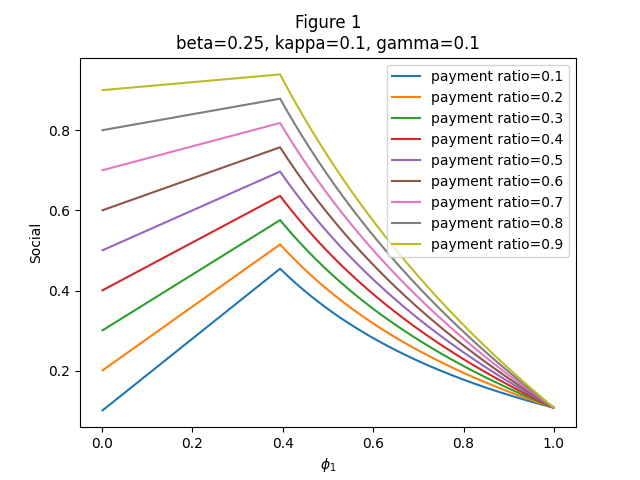
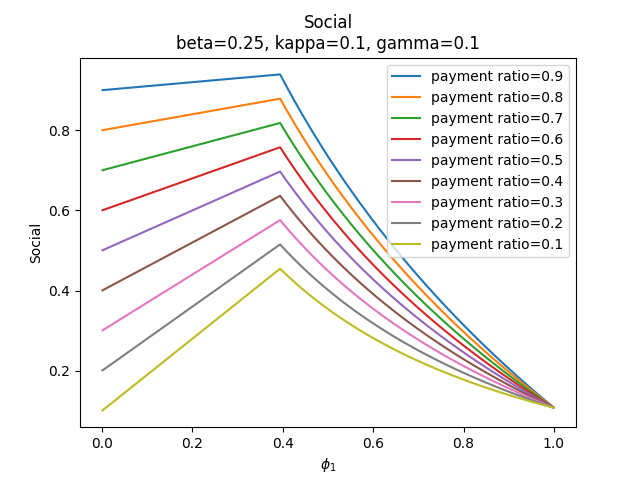
revised fig1 and 2

diff --git a/Plottings.py b/Plottings.py
@@ -28,7 +28,8 @@ def figure1_and_2():
     fig2 = plt.figure()
     ax1 = fig1.add_subplot(1, 1, 1)
     ax2 = fig2.add_subplot(1, 1, 1)
-    for d in data:
+    IU1_plotted = False
+    for d in data[::-1]:
         UG1 = d["GroupUtility1"]
         UG2 = d["GroupUtility2"]
         social = [U1 + U2 for U1, U2 in zip(UG1, UG2)]
@@ -40,19 +41,24 @@ def figure1_and_2():
         # print(type(PaymentRatio))
         # print(len(social))
         ax1.plot(phi1_range, social, label=f"payment ratio={PaymentRatio}")
-        ax2.plot(phi1_range, IU1, color=colorS1)  # label=f"Ind utility 1={PaymentRatio}")
-        ax2.plot(phi1_range, IU2, color=colorS2, label=f"Ind utility 1={PaymentRatio}")
-        ax2.plot(nash_point, nash_value, 'ro', markersize=10, label=f"NE @ {PaymentRatio}")
+        # ax2.plot(phi1_range, IU1, color=colorS1)  # label=f"Ind utility 1={PaymentRatio}")
+        # ax2.plot(phi1_range, IU2, color=colorS2, label=f"Ind utility 1={PaymentRatio}")
+        # ax2.plot(nash_point, nash_value, 'ro', markersize=10, label=f"NE @ {PaymentRatio}")
+        if not IU1_plotted:
+            IU1_plotted = True
+            ax2.plot(phi1_range, IU1, label="Group 1")  # label=f"Ind utility 1={PaymentRatio}")
+        ax2.plot(phi1_range, IU2, label=f"Group 2 @{PaymentRatio}")
+        ax2.plot(nash_point, nash_value, 'ro', markersize=10)
 
     ax1.legend()
-    ax1.set_title(f"Figure 1\nbeta={beta}, kappa={kappa}, gamma={gamma}")
+    ax1.set_title(f"Social\nbeta={beta}, kappa={kappa}, gamma={gamma}")
     ax1.set_xlabel(r"$\phi_1$")
     ax1.set_ylabel("Social")
     fig1.savefig("figCvx/fig1.png")
     ax2.legend()
-    ax2.set_title(f"Figure 2\nbeta={beta}, kappa={kappa}, gamma={gamma}")
+    ax2.set_title(f"Individual utility and Nash\nbeta={beta}, kappa={kappa}, gamma={gamma}")
     ax2.set_xlabel(r"$\phi_1$")
-    ax2.set_ylabel("Nash")
+    ax2.set_ylabel("Individual utility")
     fig2.savefig("figCvx/fig2.png")
     plt.close(fig1)
     plt.close(fig2)
@@ -101,7 +107,7 @@ def figure3():
 
 def main():
     figure1_and_2()
-    figure3()
+    # figure3()
 
 
 if __name__ == '__main__':
